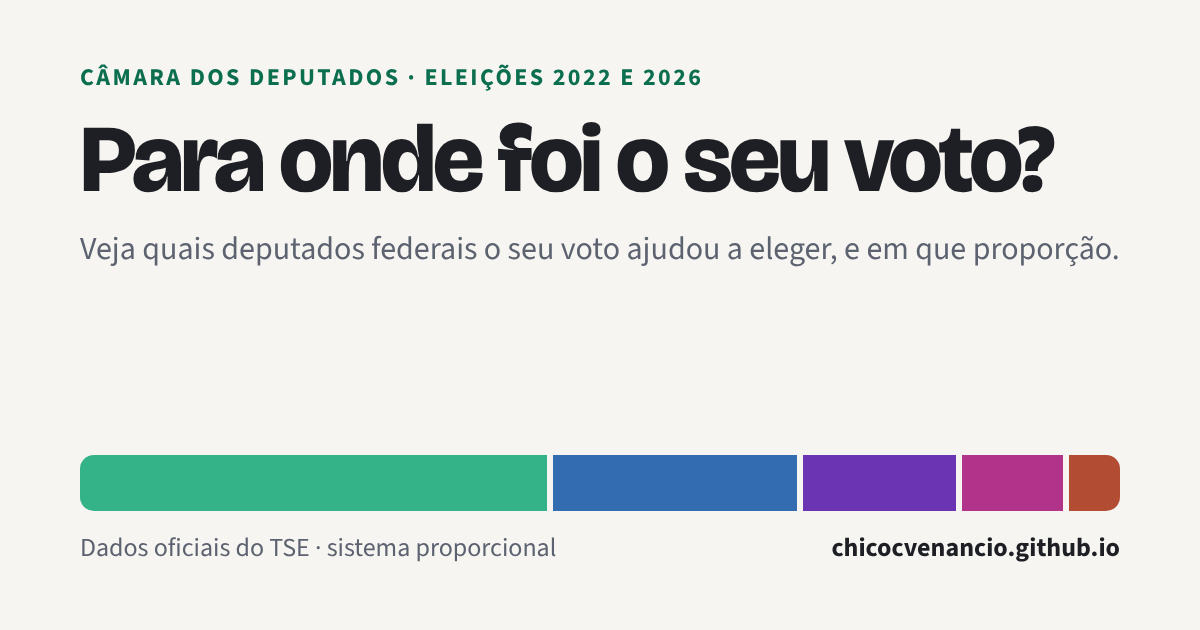
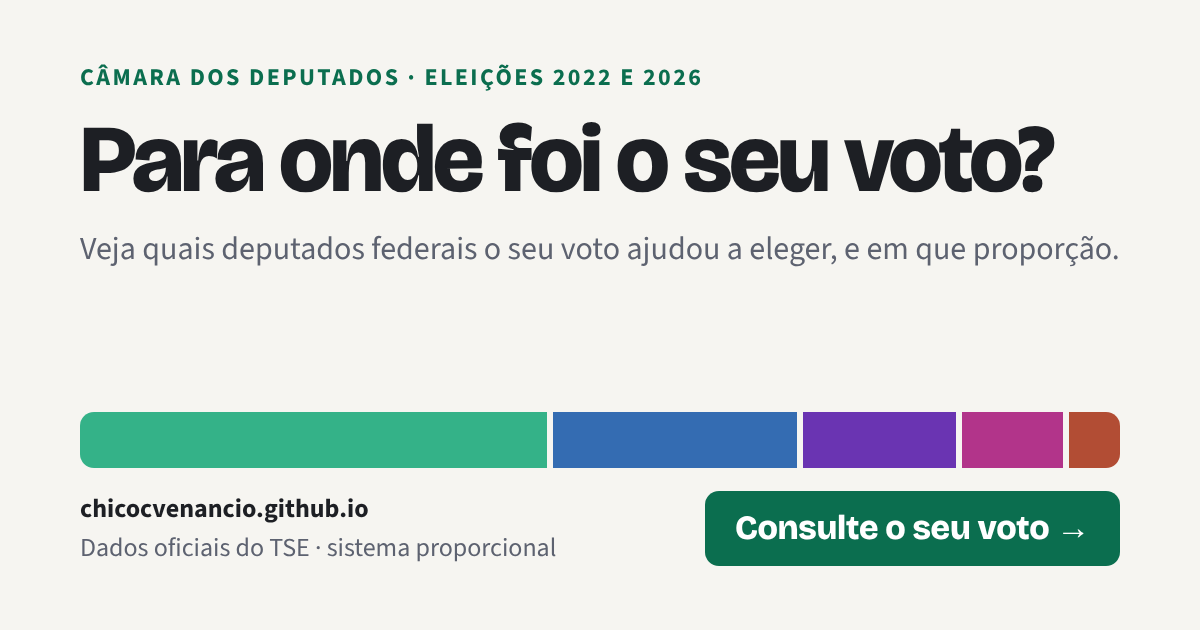
Prévia: título mais longo e chamada para ação na imagem
- <title>/og:title com 55 caracteres; resultados mantêm o nome curto.
- Botão "Consulte o seu voto →" na imagem de compartilhamento.
- og:image com ?v=<hash> (versionar.py e teste), porque Telegram e
  WhatsApp guardam a imagem pela URL.

Claude-Session: https://claude.ai/code/session_01A7n7ehFracG41TGhPvH5tR

Changed region(s): [[0.0617, 0.6333, 0.9558, 0.9048]]

diff --git a/index.html b/index.html
@@ -4,18 +4,18 @@
   <meta charset="utf-8">
   <meta name="viewport" content="width=device-width, initial-scale=1, viewport-fit=cover">
   <meta name="claude:viewport-fit-sides" content="cover">
-  <title>Para onde foi o seu voto?</title>
+  <title>Para onde foi o seu voto? Veja quem ele ajudou a eleger</title>
   <meta name="description" content="Descubra quais deputados federais o seu voto ajudou a eleger, e em que proporção. Dados oficiais do TSE de 2022 e 2026.">
   <meta property="og:type" content="website">
   <meta property="og:site_name" content="Para onde foi o seu voto?">
-  <meta property="og:title" content="Para onde foi o seu voto?">
+  <meta property="og:title" content="Para onde foi o seu voto? Veja quem ele ajudou a eleger">
   <meta property="og:description" content="Descubra quais deputados federais o seu voto ajudou a eleger, e em que proporção. Dados oficiais do TSE de 2022 e 2026.">
   <meta property="og:url" content="https://chicocvenancio.github.io/Para-onde-foi-o-seu-voto/">
   <meta property="og:locale" content="pt_BR">
-  <meta property="og:image" content="https://chicocvenancio.github.io/Para-onde-foi-o-seu-voto/img/compartilhar.png">
+  <meta property="og:image" content="https://chicocvenancio.github.io/Para-onde-foi-o-seu-voto/img/compartilhar.png?v=42d7b80036">
   <meta property="og:image:width" content="1200">
   <meta property="og:image:height" content="630">
-  <meta property="og:image:alt" content="Para onde foi o seu voto? Veja quais deputados federais o seu voto ajudou a eleger, e em que proporção.">
+  <meta property="og:image:alt" content="Para onde foi o seu voto? Veja quais deputados federais o seu voto ajudou a eleger, e em que proporção. Consulte o seu voto.">
   <meta name="twitter:card" content="summary_large_image">
   <link rel="icon" href="img/favicon.svg" type="image/svg+xml">
   <link rel="icon" href="img/favicon-32.png" sizes="32x32" type="image/png">
@@ -152,6 +152,6 @@
   <footer class="wrap rodape">Projeto educativo, sem vínculo com o TSE ou com a Câmara dos Deputados. · <a href="https://github.com/chicocvenancio/Para-onde-foi-o-seu-voto">Código aberto no GitHub</a></footer>
 
   <script src="engine.js?v=626e42187b"></script>
-  <script src="app.js?v=7372a835fe"></script>
+  <script src="app.js?v=01d765729a"></script>
 </body>
 </html>

diff --git a/404.html b/404.html
@@ -3,18 +3,18 @@
 <head>
   <meta charset="utf-8">
   <meta name="viewport" content="width=device-width, initial-scale=1">
-  <title>Para onde foi o seu voto?</title>
+  <title>Para onde foi o seu voto? Veja quem ele ajudou a eleger</title>
   <meta name="description" content="Descubra quais deputados federais o seu voto ajudou a eleger, e em que proporção. Dados oficiais do TSE de 2022 e 2026.">
   <meta property="og:type" content="website">
   <meta property="og:site_name" content="Para onde foi o seu voto?">
-  <meta property="og:title" content="Para onde foi o seu voto?">
+  <meta property="og:title" content="Para onde foi o seu voto? Veja quem ele ajudou a eleger">
   <meta property="og:description" content="Descubra quais deputados federais o seu voto ajudou a eleger, e em que proporção. Dados oficiais do TSE de 2022 e 2026.">
   <meta property="og:url" content="https://chicocvenancio.github.io/Para-onde-foi-o-seu-voto/">
   <meta property="og:locale" content="pt_BR">
-  <meta property="og:image" content="https://chicocvenancio.github.io/Para-onde-foi-o-seu-voto/img/compartilhar.png">
+  <meta property="og:image" content="https://chicocvenancio.github.io/Para-onde-foi-o-seu-voto/img/compartilhar.png?v=42d7b80036">
   <meta property="og:image:width" content="1200">
   <meta property="og:image:height" content="630">
-  <meta property="og:image:alt" content="Para onde foi o seu voto? Veja quais deputados federais o seu voto ajudou a eleger, e em que proporção.">
+  <meta property="og:image:alt" content="Para onde foi o seu voto? Veja quais deputados federais o seu voto ajudou a eleger, e em que proporção. Consulte o seu voto.">
   <meta name="twitter:card" content="summary_large_image">
   <script>
     // O GitHub Pages só serve arquivos que existem. Links como /MA/1301 ou /2022/SP/5010

diff --git a/img/compartilhar.html b/img/compartilhar.html
@@ -18,8 +18,11 @@
   .lead { font-size: 32px; line-height: 1.3; color: var(--muted); margin: 22px 0 0; max-width: 1040px; }
   .barra { display: flex; gap: 6px; height: 56px; border-radius: 14px; overflow: hidden; }
   .barra span { display: block; }
-  .rodape { display: flex; justify-content: space-between; align-items: baseline; margin-top: 18px; font-size: 26px; color: var(--muted); }
+  .rodape { display: flex; justify-content: space-between; align-items: center; margin-top: 22px; font-size: 26px; color: var(--muted); }
+  .rodape .fonte { display: flex; flex-direction: column; gap: 2px; }
   .rodape strong { color: var(--ink); font-weight: 700; }
+  .cta { font-family: "Bricolage Grotesque", sans-serif; font-weight: 800; font-size: 34px; letter-spacing: -.01em;
+    background: var(--accent); color: #ffffff; padding: 16px 30px 18px; border-radius: 14px; }
 </style>
 </head>
 <body>
@@ -36,7 +39,7 @@
       <span style="flex:10;background:hsl(319 55% 45%)"></span>
       <span style="flex:5;background:hsl(12 55% 45%)"></span>
     </div>
-    <div class="rodape"><span>Dados oficiais do TSE · sistema proporcional</span><strong>chicocvenancio.github.io</strong></div>
+    <div class="rodape"><span class="fonte"><strong>chicocvenancio.github.io</strong><span>Dados oficiais do TSE · sistema proporcional</span></span><span class="cta">Consulte o seu voto →</span></div>
   </div>
 </body>
 </html>

diff --git a/app.js b/app.js
@@ -37,7 +37,8 @@
     escCand: $("escolha-candidato"), escLeg: $("escolha-legenda"), busca: $("busca"),
     sugestoes: $("sugestoes"), partido: $("partido"), aviso: $("aviso"), resultado: $("resultado"),
   };
-  const TITULO = document.title;
+  const TITULO = document.title;              // título completo da página inicial
+  const MARCA = "Para onde foi o seu voto?";  // sufixo curto nos resultados
 
   const fmt = new Intl.NumberFormat("pt-BR");
   const fmtPct = (x) => {
@@ -207,7 +208,7 @@
   function atualizarRota(escolha, titulo) {
     const destino = url(rotaAtual(escolha));
     if (destino !== location.href) history.replaceState(null, "", destino);
-    document.title = titulo ? `${titulo} · ${TITULO}` : TITULO;
+    document.title = titulo ? `${titulo} · ${MARCA}` : TITULO;
   }
 
   async function copiarLink(botao) {

diff --git a/tests/versoes.test.js b/tests/versoes.test.js
@@ -15,3 +15,10 @@ for (const nome of ["app.js", "engine.js", "style.css"]) {
     assert.ok(html.includes(`"${nome}?v=${hash}"`), `rode python3 scripts/versionar.py (esperado ${nome}?v=${hash})`);
   });
 }
+
+for (const pagina of ["index.html", "404.html"]) {
+  test(`${pagina} usa a versão atual da imagem de prévia`, () => {
+    const hash = crypto.createHash("sha256").update(fs.readFileSync(path.join(RAIZ, "img/compartilhar.png"))).digest("hex").slice(0, 10);
+    assert.ok(fs.readFileSync(path.join(RAIZ, pagina), "utf8").includes(`img/compartilhar.png?v=${hash}"`), "rode python3 scripts/versionar.py");
+  });
+}

diff --git a/scripts/versionar.py b/scripts/versionar.py
@@ -1,5 +1,6 @@
 #!/usr/bin/env python3
-"""Atualiza o ?v=<hash> de app.js, engine.js e style.css no index.html.
+"""Atualiza o ?v=<hash> de app.js, engine.js e style.css no index.html,
+e da imagem de prévia (og:image) no index.html e no 404.html.
 
 O GitHub Pages manda o navegador guardar cada arquivo por 10 minutos. Com o hash do
 conteúdo na URL, um index.html novo sempre carrega os scripts e o CSS novos, sem
@@ -15,6 +16,7 @@ from pathlib import Path
 
 RAIZ = Path(__file__).resolve().parent.parent
 ARQUIVOS = ("app.js", "engine.js", "style.css")
+IMAGEM = "img/compartilhar.png"
 
 
 def versao(nome: str) -> str:
@@ -31,6 +33,16 @@ def main():
             raise SystemExit(f"esperava 1 referência a {nome} no index.html, achei {n}")
     caminho.write_text(html, encoding="utf-8")
     print("index.html:", ", ".join(f"{n}?v={versao(n)}" for n in ARQUIVOS))
+
+    # Imagem de prévia (og:image): Telegram, WhatsApp etc. guardam a imagem pela URL.
+    for pagina in ("index.html", "404.html"):
+        caminho = RAIZ / pagina
+        html, n = re.subn(r"img/compartilhar\.png(?:\?v=[0-9a-f]*)?",
+                          f"img/compartilhar.png?v={versao(IMAGEM)}", caminho.read_text(encoding="utf-8"))
+        if n != 1:
+            raise SystemExit(f"esperava 1 referência a {IMAGEM} no {pagina}, achei {n}")
+        caminho.write_text(html, encoding="utf-8")
+    print("og:image:", f"{IMAGEM}?v={versao(IMAGEM)}")
 
 
 if __name__ == "__main__":
